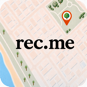
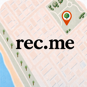
fix(REC-343): remove marked upper-left palm

diff --git a/preview/app-icon-candidates/rec-343/README.md b/preview/app-icon-candidates/rec-343/README.md
@@ -2,7 +2,7 @@
 
 The revised original warm-map direction is the selected candidate. The Liquid Glass version remains here as the comparison candidate from the review; the current production icon is unchanged pending explicit promotion approval.
 
-`source/recme-warm-map-original-source-1254.png` is a byte-for-byte copy of the initially supplied image. `source/recme-warm-map-selected-source-1254.png` is the selected revision with eight less-symmetrical palms: the isolated upper-left palm is retained, while the separate palm nearest the yellow sand is removed. The selected candidate's Icon Composer source is a 1024 px normalization of that revision.
+`source/recme-warm-map-original-source-1254.png` is a byte-for-byte copy of the initially supplied image. `source/recme-warm-map-selected-source-1254.png` is the selected revision with the explicitly marked palm at x=7.8%, y=11.5% removed and the surrounding peach rooftop reconstructed. The selected candidate's Icon Composer source is a 1024 px normalization of that revision.
 
 ## Variants
 
@@ -17,7 +17,7 @@ Built-in image editing was used with the original supplied image as the edit tar
 
 > Edit only the palm trees running down the diagonal sage-green strip along the left side. Reduce them from the current dense, evenly spaced row to approximately eight palms. Arrange those palms with intentionally irregular natural spacing, varied gaps, subtle differences in height and crown size, and slight varied leans so they do not look copied or symmetrical. Preserve absolutely everything else in appearance. Every edited palm, including its full trunk, leaves, and shadow, must remain completely within the diagonal sage-green strip.
 
-The corrected follow-up restored the isolated upper-left palm and instead removed the palm nearest the yellow sand, reconstructing the matching green texture beneath the removed palm.
+The final coordinate-based edit removed only the palm centered at x=7.8%, y=11.5% from the supplied marked image and preserved every other palm.
 
 ## Liquid Glass image-generation prompt
 
